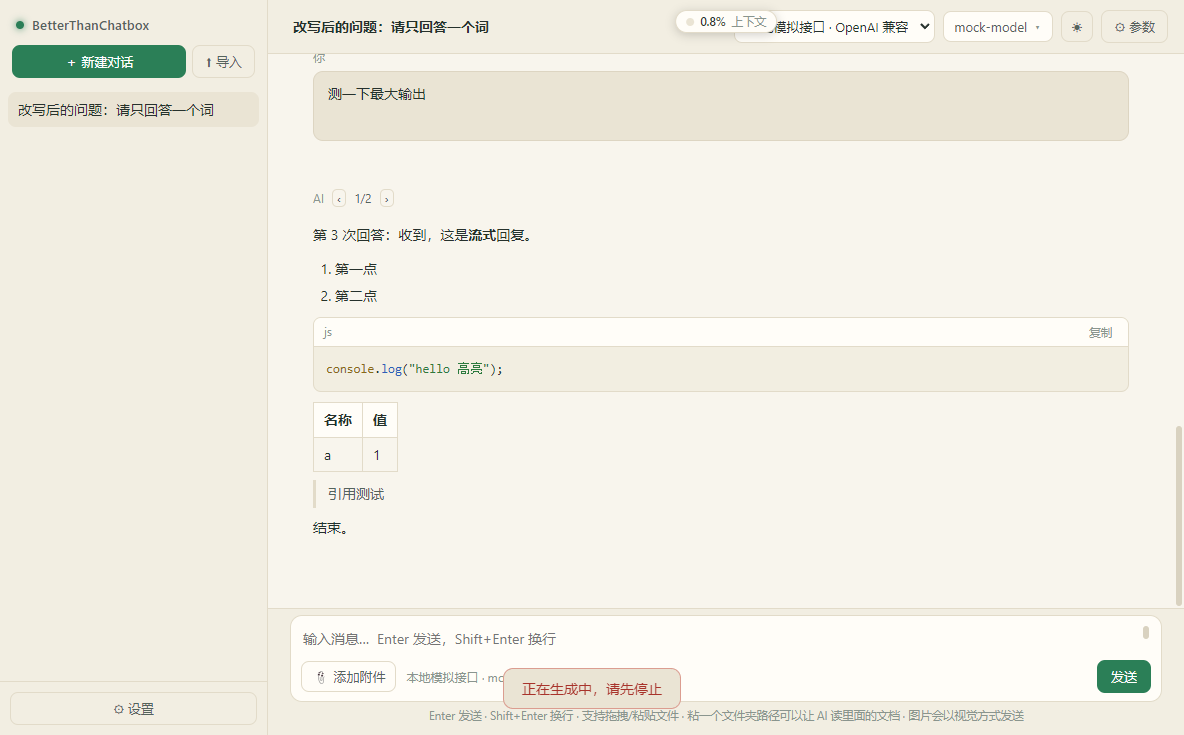
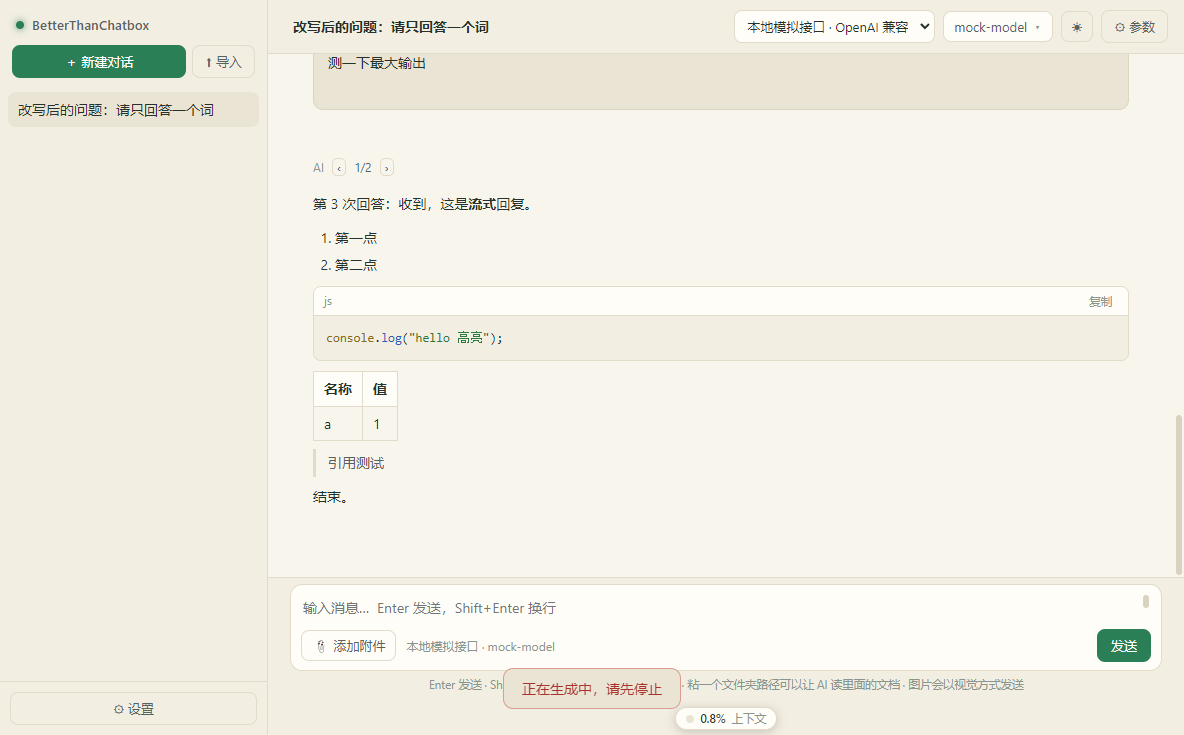
修：上下文灵动岛和顶栏的模型下拉按钮重叠 → 移到输入框下面
用户反馈：灵动岛浮在消息区顶部，和顶栏的模型选择按钮叠在一起。

- index.html：灵动岛从「消息区之后、输入框之前」移到「输入框之后、贴窗口底部」
- styles.css：不再是 top:10px 的绝对定位，改成底部一行居中（与输入区同底色，看起来是一体的）；
  展开面板改为向上弹出
- 面板位置用实测坐标控制：胶囊在输入框下方，如果面板只贴着胶囊向上弹就会盖住输入框
  （我自己新加的检查抓到了这点），所以展开时量一次「胶囊顶边 - 输入框顶边」的距离，
  把面板抬到输入框上方 —— 既不挡打字，也不跑出窗口；同时加 max-height + overflow 兜底

测试（e2e:context 36 项，+4）
- 按真实坐标断言：不与模型下拉按钮矩形相交、位置在输入框下方、贴在窗口底部
- 展开的面板完整在窗口内且停在输入框上方
- 用截图 + OCR 复核：底部条里读到「上下文」胶囊，横向正好在主区域居中
  （主区域 268~1184，胶囊文字在 x≈727）

回归：13 个单元测试全过 / smoke:pkg 97 项 0 异常 / e2e 七个（23+27+21+21+16+11+36）全过

diff --git a/scripts/context-e2e-driver.js b/scripts/context-e2e-driver.js
@@ -131,6 +131,30 @@ module.exports = async function contextE2E(win, app) {
     check('胶囊很小，不占主界面地方', !!pill && pill.rect && pill.rect.h <= 32 && pill.rect.w <= 160,
       JSON.stringify(pill && pill.rect));
 
+    // 用户反馈过：灵动岛原来浮在消息区顶部，和顶栏的模型下拉按钮叠在一起。
+    // 现在移到输入框下面，这里量真实坐标把它钉住。
+    const geom = await js(`(() => {
+      const r = (sel) => { const e = document.querySelector(sel); if (!e) return null; const b = e.getBoundingClientRect(); return { x: b.x, y: b.y, w: b.width, h: b.height, bottom: b.bottom, right: b.right }; };
+      const inter = (a, b) => !!a && !!b && a.x < b.right && b.x < a.right && a.y < b.bottom && b.y < a.bottom;
+      const pillR = r('#ctx-island .ctx-pill');
+      const model = r('#model-picker') || r('#conn-select');
+      const composer = r('#composer');
+      const tip = r('.composer-tip');
+      return {
+        pill: pillR, model, composer, tip,
+        overlapsModel: inter(pillR, model),
+        belowComposer: !!(pillR && composer && pillR.y >= composer.y),
+        belowTip: !!(pillR && tip && pillR.y >= tip.y - 2),
+        nearBottom: !!(pillR && pillR.bottom <= window.innerHeight + 1 && pillR.bottom > window.innerHeight - 120),
+      };
+    })()`);
+    check('不会和顶栏的模型下拉按钮重叠', geom && geom.overlapsModel === false,
+      JSON.stringify({ pill: geom && geom.pill, model: geom && geom.model }));
+    check('位置在输入框下方', geom && geom.belowComposer === true,
+      JSON.stringify({ pill: geom && geom.pill, composer: geom && geom.composer }));
+    check('在窗口底部（不是飘在消息区上方）', geom && geom.nearBottom === true,
+      JSON.stringify(geom && geom.pill));
+
     const opened = await js(`(() => {
       document.querySelector('#ctx-island .ctx-pill').click();
       const box = document.querySelector('#ctx-island');
@@ -145,6 +169,17 @@ module.exports = async function contextE2E(win, app) {
     check('点一下才展开详情面板', opened.hasPanel, JSON.stringify({ hasPanel: opened.hasPanel }));
     check('面板里写明「约 N / M tokens」', /约\s*[\d.]+k?\s*\/\s*[\d.]+k?\s*tokens/.test(opened.text), opened.text.slice(0, 120));
     check('面板里有「压缩上下文」按钮且可用', opened.hasCompact && opened.compactDisabled === false, JSON.stringify(opened));
+    // 面板向上弹出：不能把它自己挤出窗口，也不该把输入框推走
+    const panelGeom = await js(`(() => {
+      const p = document.querySelector('#ctx-island .ctx-panel');
+      if (!p) return null;
+      const b = p.getBoundingClientRect();
+      const c = document.querySelector('#composer').getBoundingClientRect();
+      return { top: b.top, bottom: b.bottom, inWindow: b.top >= 0 && b.bottom <= window.innerHeight + 1,
+               aboveComposer: b.bottom <= c.top + 1 };
+    })()`);
+    check('展开的面板完整在窗口内、且在输入框上方', panelGeom && panelGeom.inWindow && panelGeom.aboveComposer,
+      JSON.stringify(panelGeom));
 
     const tokensBefore = await js(`(async () => {
       const s = await window.api.getState();

diff --git a/app/renderer/styles.css b/app/renderer/styles.css
@@ -483,14 +483,16 @@ input, textarea, select { font-family: inherit; font-size: 13px; color: var(--te
 }
 .msg-summary .msg-head span:first-child { color: var(--accent-hover); }
 
-/* ---------- 上下文「灵动岛」：平时一个小胶囊浮在消息区顶部，点开才展开 ---------- */
+/* ---------- 上下文「灵动岛」：在输入框下面，平时一个小胶囊，点开才展开 ---------- */
+/* 位置说明：以前浮在消息区顶部，会和顶栏的模型下拉按钮撞在一起（用户反馈），
+   现在放在输入框下方、贴着窗口底部；展开面板向上弹出，不会顶开内容。 */
 .ctx-island {
-  position: absolute; top: 10px; left: 50%; transform: translateX(-50%);
-  z-index: 30; display: flex; flex-direction: column; align-items: center;
+  position: relative; z-index: 30;
+  display: flex; justify-content: center; align-items: center;
+  min-height: 26px; padding: 3px 22px 5px;
+  background: var(--bg-2);
   font-size: 11.5px; color: var(--text-dim);
-  pointer-events: none;           /* 只有胶囊本身和面板可点，不挡消息区 */
 }
-.ctx-island > * { pointer-events: auto; }
 .ctx-pill {
   display: flex; align-items: center; gap: 6px;
   padding: 3px 10px; border-radius: 999px;
@@ -513,7 +515,9 @@ input, textarea, select { font-family: inherit; font-size: 13px; color: var(--te
 .ctx-island.compressed .ctx-pill { border-style: dashed; }
 
 .ctx-panel {
-  margin-top: 6px; width: 320px; max-width: 76vw;
+  position: absolute; left: 50%; transform: translateX(-50%);
+  bottom: calc(100% + 6px);            /* 向上展开，盖在消息区上，不推挤布局 */
+  width: 320px; max-width: 76vw; max-height: 44vh; overflow: auto;
   background: var(--bg-3); border: 1px solid var(--line); border-radius: 12px;
   box-shadow: 0 8px 28px rgba(0,0,0,.28);
   padding: 10px 12px; text-align: left;

diff --git a/app/renderer/app.js b/app/renderer/app.js
@@ -15,6 +15,7 @@ const el = {
   pending: $('#pending'),
   pathChips: $('#path-chips'),
   ctxIsland: $('#ctx-island'),
+  composer: $('#composer'),
   send: $('#btn-send'),
   attach: $('#btn-attach'),
   newBtn: $('#btn-new'),
@@ -575,6 +576,17 @@ function renderCtxIsland() {
     ' title="把较早的对话总结成一段摘要；原文保留、可展开查看">压缩上下文</button>' +
     '<button data-ctx="close">收起</button>' +
     '</div></div>';
+
+  // 面板向上弹出，默认贴着胶囊；但胶囊在输入框下面，那样会盖住输入框。
+  // 这里量一下，把面板抬到输入框上方去（既不挡输入，也不挡消息区的底部）。
+  if (ctxOpen) {
+    const panel = el.ctxIsland.querySelector('.ctx-panel');
+    if (panel && el.composer) {
+      const gap = Math.max(0, Math.round(el.ctxIsland.getBoundingClientRect().top -
+        el.composer.getBoundingClientRect().top + 6));
+      panel.style.bottom = 'calc(100% + ' + gap + 'px)';
+    }
+  }
 }
 
 function fmtTokens(n) {

diff --git a/app/renderer/index.html b/app/renderer/index.html
@@ -41,9 +41,6 @@
 
       <div id="messages" class="messages"></div>
 
-      <!-- 上下文「灵动岛」：平时就是一个小胶囊，点一下才展开详情 -->
-      <div id="ctx-island" class="ctx-island hidden"></div>
-
       <div class="composer-wrap">
         <div id="path-chips" class="path-chips hidden"></div>
         <div id="pending" class="pending hidden"></div>
@@ -57,6 +54,9 @@
         </div>
         <div class="composer-tip">Enter 发送 · Shift+Enter 换行 · 支持拖拽/粘贴文件 · 粘一个文件夹路径可以让 AI 读里面的文档 · 图片会以视觉方式发送</div>
       </div>
+
+      <!-- 上下文「灵动岛」：放在输入框下面，平时就是一个小胶囊，点一下才展开详情 -->
+      <div id="ctx-island" class="ctx-island hidden"></div>
     </main>
   </div>
 

diff --git a/README.md b/README.md
@@ -383,7 +383,10 @@ python scripts\make-office-fixtures.py test-fixtures\office
 
 ## 上下文用量与压缩（灵动岛）
 
-上下文相关的东西**不占主界面**：收成消息区顶部的一个小胶囊（灵动岛），点一下才展开。
+上下文相关的东西**不占主界面**：收成输入框下方的一个小胶囊（灵动岛），点一下才展开。
+
+> 位置说明：一开始它浮在消息区顶部，会和顶栏的模型下拉按钮叠在一起，所以移到了输入框下面。
+> 展开的详情面板向上弹出、停在输入框上方，既不挡你打字，也不会跑出窗口。
 
 ```
          ◔ 19% 上下文            ← 平时只有这么一个小胶囊
